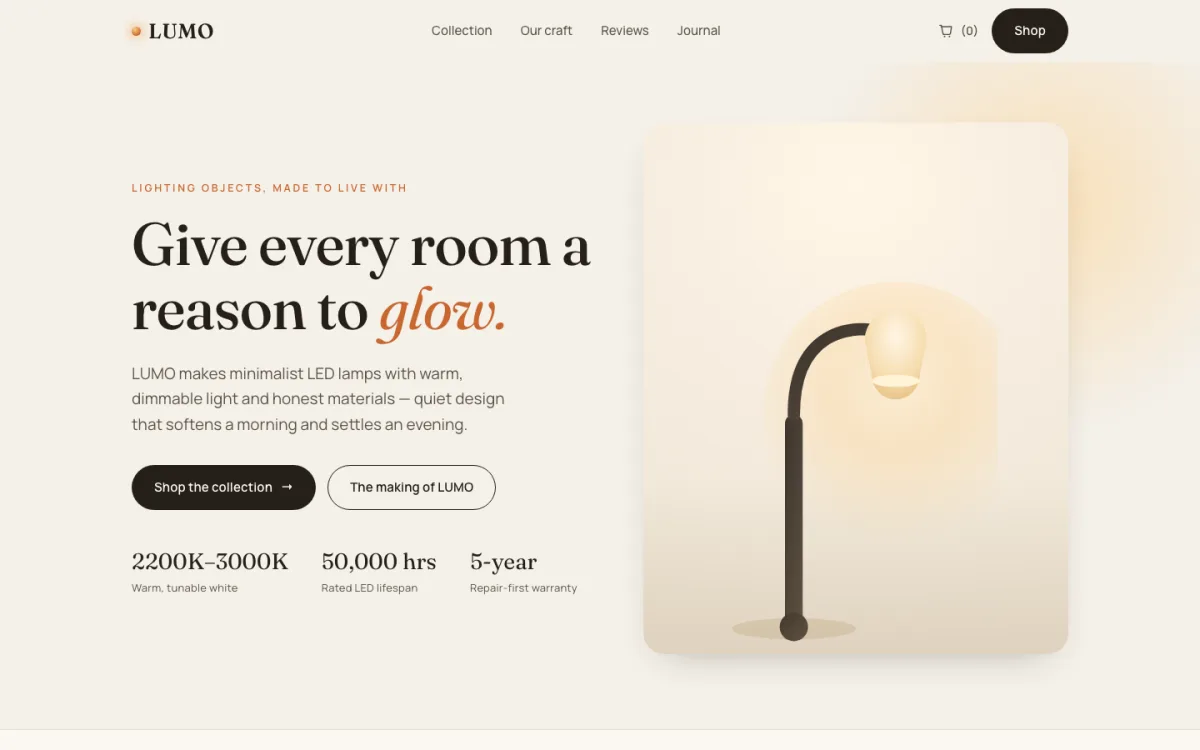
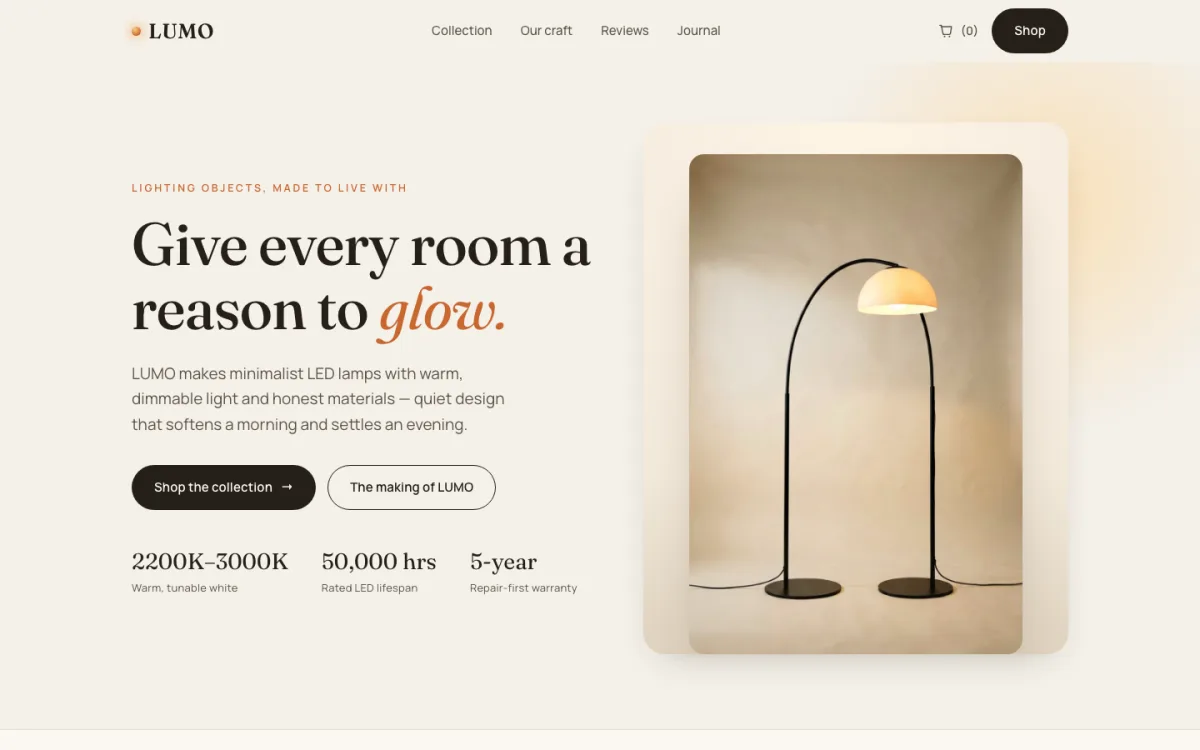
feat(lumo): 用生成的真实灯具图替换 CSS 灯 + 更新封面
LUMO 电商 demo:Hero 弧形落地灯 + 4 款产品(Halo/Pillar/Arca/Reed)改用
AI 生成的原创产品摄影图(暖白北欧风,无文字/logo),案例封面同步更新

Changed region(s): [[0.555, 0.184, 0.8633, 0.8893]]

diff --git a/agency/work/demo-ecommerce/index.html b/agency/work/demo-ecommerce/index.html
@@ -473,6 +473,10 @@
     .foot-grid { grid-template-columns: 1fr; gap: 30px; }
     .hero-meta { gap: 26px; }
   }
+  .hero-stage .lampimg{width:92%;max-width:400px;height:auto;border-radius:18px;display:block;box-shadow:0 30px 60px -28px rgba(60,40,20,.42)}
+  .card-visual .lampimg{position:absolute;inset:0;width:100%;height:100%;object-fit:cover;z-index:0}
+  .card-visual .tag{z-index:3}
+  .card-visual .floor{display:none}
 </style>
 </head>
 <body>
@@ -539,37 +543,7 @@
 
       <div class="hero-stage reveal" aria-hidden="true">
         <!-- Hero lamp: floor arc lamp -->
-        <svg class="lamp" viewBox="0 0 320 420" width="86%" style="max-width:340px" role="img" aria-label="Illustration of a minimalist arc floor lamp">
-          <defs>
-            <radialGradient id="heroGlow" cx="50%" cy="38%" r="60%">
-              <stop offset="0%" stop-color="#fff2d0" stop-opacity="0.95"/>
-              <stop offset="45%" stop-color="#ffcf87" stop-opacity="0.55"/>
-              <stop offset="100%" stop-color="#ffcf87" stop-opacity="0"/>
-            </radialGradient>
-            <radialGradient id="heroShade" cx="50%" cy="30%" r="80%">
-              <stop offset="0%" stop-color="#fff6e6"/>
-              <stop offset="60%" stop-color="#f6dcae"/>
-              <stop offset="100%" stop-color="#e2b878"/>
-            </radialGradient>
-            <linearGradient id="heroStem" x1="0" y1="0" x2="1" y2="1">
-              <stop offset="0%" stop-color="#3b342b"/>
-              <stop offset="100%" stop-color="#5c5044"/>
-            </linearGradient>
-          </defs>
-          <!-- glow -->
-          <circle class="lamp-glow" cx="205" cy="150" r="150" fill="url(#heroGlow)"/>
-          <!-- base -->
-          <ellipse cx="90" cy="392" rx="70" ry="12" fill="#d8c6a8" opacity="0.6"/>
-          <rect x="80" y="150" width="20" height="238" rx="10" fill="url(#heroStem)"/>
-          <circle cx="90" cy="390" r="16" fill="url(#heroStem)"/>
-          <!-- arc arm -->
-          <path d="M90 150 C90 60 150 42 205 60" fill="none" stroke="url(#heroStem)" stroke-width="14" stroke-linecap="round"/>
-          <!-- shade -->
-          <g class="bulb">
-            <path d="M170 66 a35 35 0 0 1 70 0 l-8 40 a27 27 0 0 1 -54 0 z" fill="url(#heroShade)"/>
-            <ellipse cx="205" cy="112" rx="27" ry="7" fill="#fff3d6"/>
-          </g>
-        </svg>
+        <img class="lampimg" src="/uploads/webp/lumo-hero.webp" alt="LUMO 弧形落地灯" loading="lazy">
       </div>
     </div>
   </section>
@@ -592,25 +566,7 @@
           <div class="card-visual">
             <span class="tag">Bestseller</span>
             <div class="floor"></div>
-            <svg class="lamp" viewBox="0 0 220 240" width="72%" style="max-width:200px" role="img" aria-label="Halo dome table lamp illustration">
-              <defs>
-                <radialGradient id="g1glow" cx="50%" cy="55%" r="55%">
-                  <stop offset="0%" stop-color="#fff2d0" stop-opacity="0.95"/>
-                  <stop offset="100%" stop-color="#ffcf87" stop-opacity="0"/>
-                </radialGradient>
-                <linearGradient id="g1dome" x1="0" y1="0" x2="0" y2="1">
-                  <stop offset="0%" stop-color="#3a332a"/>
-                  <stop offset="100%" stop-color="#564b3d"/>
-                </linearGradient>
-              </defs>
-              <circle class="lamp-glow" cx="110" cy="150" r="95" fill="url(#g1glow)"/>
-              <ellipse cx="110" cy="222" rx="60" ry="10" fill="#d8c6a8" opacity="0.55"/>
-              <path d="M45 150 a65 55 0 0 1 130 0 z" fill="url(#g1dome)"/>
-              <g class="bulb"><path d="M60 150 a50 44 0 0 1 100 0 z" fill="#fff0c9"/></g>
-              <rect x="70" y="150" width="80" height="10" rx="5" fill="#2f2921"/>
-              <rect x="96" y="160" width="28" height="52" rx="6" fill="#413a30"/>
-              <ellipse cx="110" cy="214" rx="34" ry="8" fill="#2f2921"/>
-            </svg>
+            <img class="lampimg" src="/uploads/webp/lumo-halo.webp" alt="LUMO Halo 球形台灯" loading="lazy">
           </div>
           <div class="card-body">
             <div class="meta">
@@ -627,24 +583,7 @@
           <div class="card-visual">
             <span class="tag">New</span>
             <div class="floor"></div>
-            <svg class="lamp" viewBox="0 0 220 240" width="58%" style="max-width:150px" role="img" aria-label="Pillar portable cylinder lamp illustration">
-              <defs>
-                <radialGradient id="g2glow" cx="50%" cy="40%" r="60%">
-                  <stop offset="0%" stop-color="#fff2d0" stop-opacity="0.95"/>
-                  <stop offset="100%" stop-color="#ffcf87" stop-opacity="0"/>
-                </radialGradient>
-                <linearGradient id="g2body" x1="0" y1="0" x2="1" y2="0">
-                  <stop offset="0%" stop-color="#efd9ad"/>
-                  <stop offset="50%" stop-color="#fff3d8"/>
-                  <stop offset="100%" stop-color="#e5c48f"/>
-                </linearGradient>
-              </defs>
-              <circle class="lamp-glow" cx="110" cy="110" r="95" fill="url(#g2glow)"/>
-              <ellipse cx="110" cy="224" rx="46" ry="9" fill="#d8c6a8" opacity="0.55"/>
-              <rect x="66" y="60" width="88" height="150" rx="44" fill="url(#g2body)"/>
-              <g class="bulb"><rect x="80" y="74" width="60" height="60" rx="30" fill="#fff2cd" opacity="0.9"/></g>
-              <rect x="66" y="196" width="88" height="18" rx="9" fill="#3a332a"/>
-            </svg>
+            <img class="lampimg" src="/uploads/webp/lumo-pillar.webp" alt="LUMO Pillar 柱形灯" loading="lazy">
           </div>
           <div class="card-body">
             <div class="meta">
@@ -660,24 +599,7 @@
         <article class="card reveal">
           <div class="card-visual">
             <div class="floor"></div>
-            <svg class="lamp" viewBox="0 0 220 240" width="70%" style="max-width:190px" role="img" aria-label="Arca spherical pendant lamp illustration">
-              <defs>
-                <radialGradient id="g3glow" cx="50%" cy="55%" r="55%">
-                  <stop offset="0%" stop-color="#fff2d0" stop-opacity="0.95"/>
-                  <stop offset="100%" stop-color="#ffcf87" stop-opacity="0"/>
-                </radialGradient>
-                <radialGradient id="g3orb" cx="42%" cy="34%" r="72%">
-                  <stop offset="0%" stop-color="#fff7e8"/>
-                  <stop offset="55%" stop-color="#ffe6b6"/>
-                  <stop offset="100%" stop-color="#e9c184"/>
-                </radialGradient>
-              </defs>
-              <circle class="lamp-glow" cx="110" cy="140" r="100" fill="url(#g3glow)"/>
-              <rect x="107" y="8" width="6" height="70" rx="3" fill="#3a332a"/>
-              <circle cx="110" cy="10" r="7" fill="#3a332a"/>
-              <g class="bulb"><circle cx="110" cy="140" r="62" fill="url(#g3orb)"/></g>
-              <ellipse cx="110" cy="118" rx="40" ry="14" fill="#fff6e2" opacity="0.55"/>
-            </svg>
+            <img class="lampimg" src="/uploads/webp/lumo-arca.webp" alt="LUMO Arca 灯" loading="lazy">
           </div>
           <div class="card-body">
             <div class="meta">
@@ -693,24 +615,7 @@
         <article class="card reveal">
           <div class="card-visual">
             <div class="floor"></div>
-            <svg class="lamp" viewBox="0 0 220 240" width="70%" style="max-width:190px" role="img" aria-label="Reed slim floor lamp illustration">
-              <defs>
-                <radialGradient id="g4glow" cx="50%" cy="30%" r="55%">
-                  <stop offset="0%" stop-color="#fff2d0" stop-opacity="0.95"/>
-                  <stop offset="100%" stop-color="#ffcf87" stop-opacity="0"/>
-                </radialGradient>
-                <linearGradient id="g4cone" x1="0" y1="0" x2="0" y2="1">
-                  <stop offset="0%" stop-color="#564b3d"/>
-                  <stop offset="100%" stop-color="#39322a"/>
-                </linearGradient>
-              </defs>
-              <circle class="lamp-glow" cx="110" cy="70" r="80" fill="url(#g4glow)"/>
-              <ellipse cx="110" cy="224" rx="42" ry="9" fill="#d8c6a8" opacity="0.55"/>
-              <path d="M86 40 h48 l-10 44 h-28 z" fill="url(#g4cone)"/>
-              <g class="bulb"><ellipse cx="110" cy="84" rx="15" ry="5" fill="#fff0c9"/></g>
-              <rect x="106" y="82" width="8" height="128" rx="4" fill="#4a4234"/>
-              <rect x="78" y="208" width="64" height="9" rx="4.5" fill="#3a332a"/>
-            </svg>
+            <img class="lampimg" src="/uploads/webp/lumo-reed.webp" alt="LUMO Reed 落地灯" loading="lazy">
           </div>
           <div class="card-body">
             <div class="meta">
